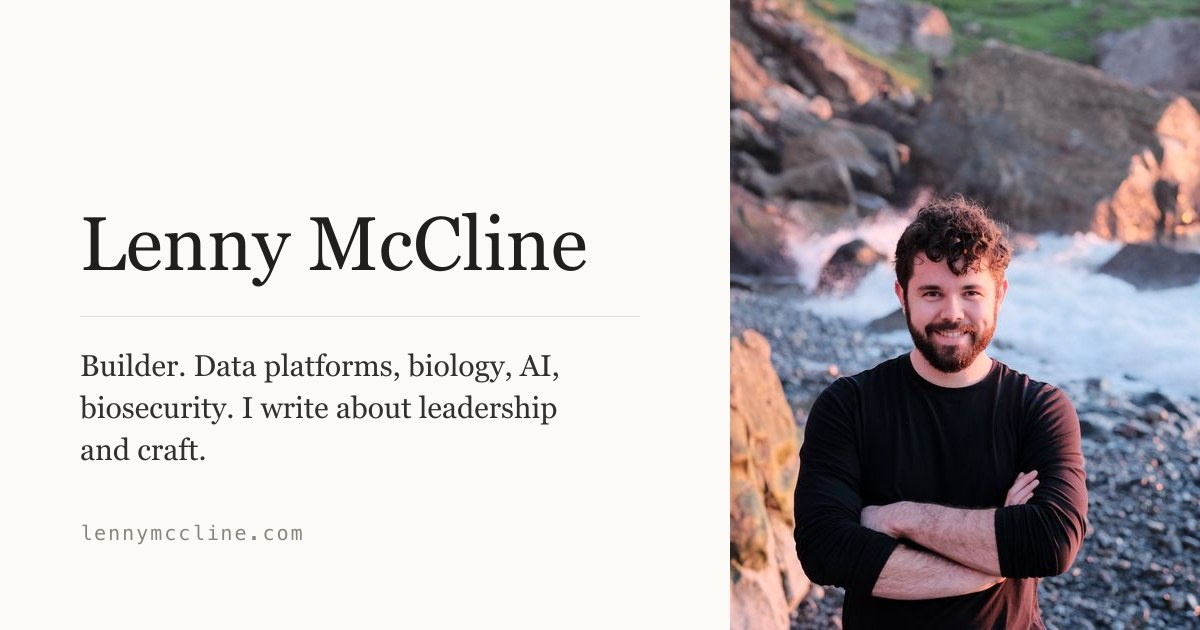
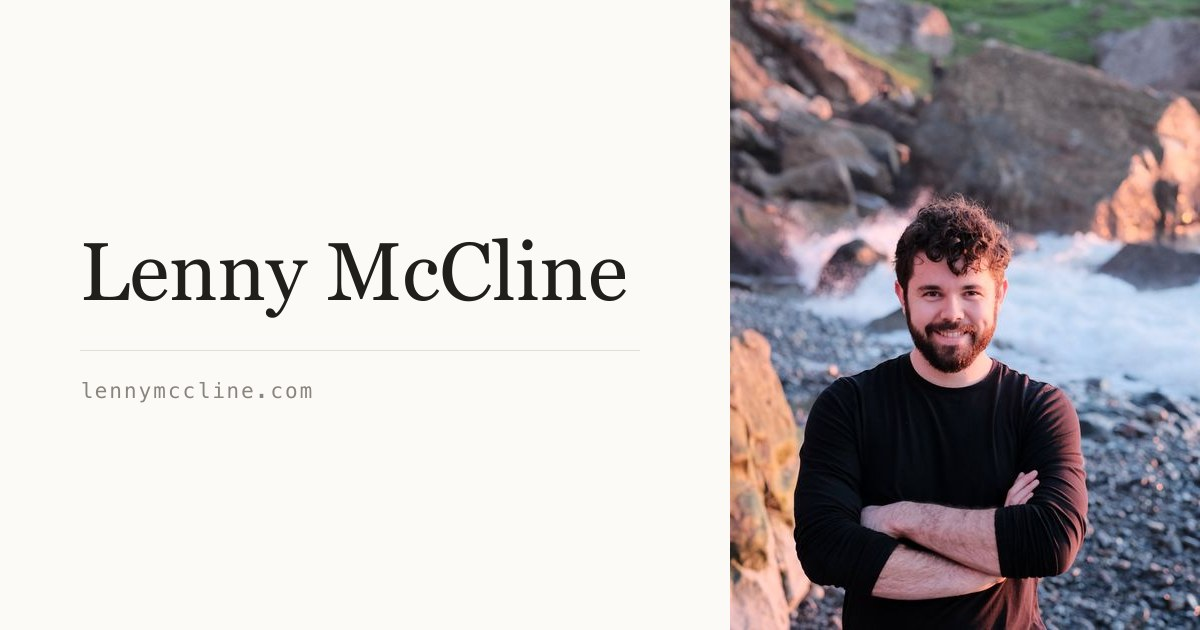
Use Lenny's own sentences for every description; strip invented tagline from the OG card

diff --git a/src/pages/rss.xml.js b/src/pages/rss.xml.js
@@ -13,7 +13,7 @@ export async function GET(context) {
 
 	return rss({
 		title: 'Lenny McCline',
-		description: 'Essays on leadership, craft, and learning from people who did great work.',
+		description: 'I am a builder whose creative mediums span data platforms, biology, AI, biosecurity, business, and startups.',
 		site,
 		items: essays.map((essay) => ({
 			title: essay.data.title,

diff --git a/src/content/essays/lincolns-heart.md b/src/content/essays/lincolns-heart.md
@@ -1,7 +1,7 @@
 ---
 title: Lincoln’s heart
 date: 2026-01-15
-description: On Abraham Lincoln, and how a lifetime of carrying his own pain made him able to lead a nation through its worst tension.
+description: I read Doris Kearns Goodwin's biography of Lincoln, Team of Rivals, in November and I keep coming back to it.
 ---
 
 <p class="lede">I have gleaned much wisdom from the late great <a href="https://fs.blog/intellectual-giants/charlie-munger/">Charlie Munger</a>, and one such nugget is: “There is no love that’s so right as admiration-based love, and that love should include the instructive dead.” This essay comes from that place.</p>

diff --git a/src/content/essays/a-work-of-art.md b/src/content/essays/a-work-of-art.md
@@ -1,7 +1,7 @@
 ---
 title: A work of art
 date: 2024-02-16
-description: On Glenn Gould, Steve Jobs, and the idea that all work done well is at its essence art.
+description: Glenn Gould was a Canadian pianist known for vibrant, innovative reinterpretations of classical Bach.
 ---
 
 ![Glenn Gould at the piano](/img/gould.webp)
